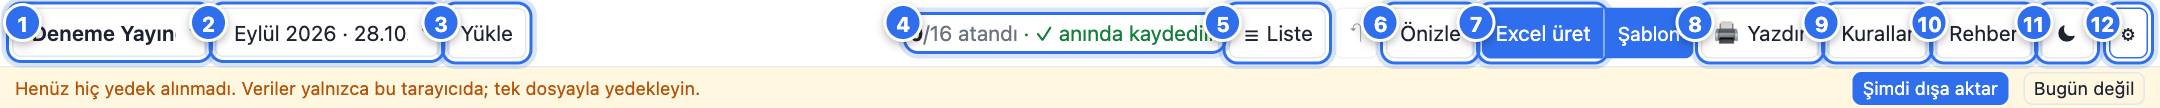
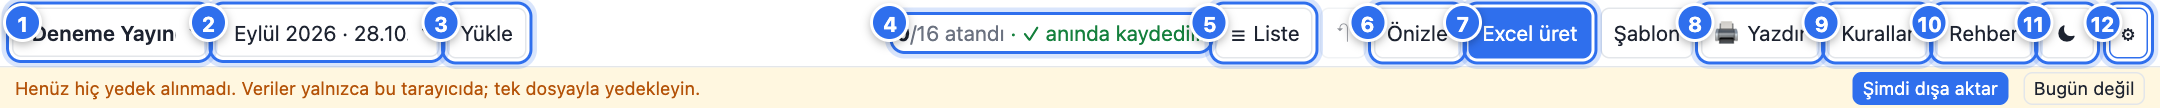
Şablon düğmesi sade ikincil düğme: üst çubukta tek birincil eylem Excel üret

Changed region(s): [[0.4032, 0.0, 0.8065, 0.6389]]

diff --git a/src/ui/styles.css b/src/ui/styles.css
@@ -33,10 +33,8 @@ input:focus, select:focus { outline: 2px solid var(--accent); outline-offset: 0;
 .backup-hint span { flex: 1; }
 .toolbar { display: flex; align-items: center; gap: 8px; padding: 8px 12px; background: var(--panel); border-bottom: 1px solid var(--line); flex-wrap: nowrap; overflow: hidden; min-width: 0; }
 .toolbar > button, .toolbar > select, .toolbar > .progress, .toolbar > .tb-more-wrap { flex: none; }
-/* Excel üret + Şablon: bitişik iki parça, hiç gizlenmez */
-.toolbar > .excel-split { flex: none; display: inline-flex; }
-.excel-split .excel-btn { border-top-right-radius: 0; border-bottom-right-radius: 0; }
-.excel-split .excel-tpl { border-top-left-radius: 0; border-bottom-left-radius: 0; border-left-color: color-mix(in srgb, var(--accent-ink) 40%, var(--accent)); font-size: 13px; }
+/* Excel üret (birincil) + Şablon (ikincil, sade): ikisi de hiç gizlenmez */
+.toolbar > .excel-split { flex: none; display: inline-flex; gap: 6px; }
 .app:not(.wide) .excel-split > button { padding: 6px 8px; }
 .toolbar .progress { white-space: nowrap; }
 .toolbar kbd { display: none; } .app.wide .toolbar kbd, .toolbar kbd.always { display: inline; }

diff --git a/src/ui/Toolbar.tsx b/src/ui/Toolbar.tsx
@@ -139,7 +139,7 @@ export function Toolbar() {
       {acts.slice(0, 3).map((a) => <button data-act={a.id} class={a.cls ?? ''} onClick={a.on} disabled={a.disabled} title={a.title}>{a.label}{a.kbd && a.id === 'preview' && <kbd>F5</kbd>}</button>)}
       <span class="excel-split">
         <button class="primary excel-btn" onClick={() => S.exportExcel()} disabled={!b || n === 0} title="Excel üret (F1)">Excel üret <kbd>F1</kbd></button>
-        <button class="primary excel-tpl" onClick={() => (S.templateOpen.value = true)} title={`Excel şablonu (${S.firm.value.name}): hangi sütunlar, hangi sırayla, hangi başlıkla`}>Şablon</button>
+        <button class="excel-tpl" onClick={() => (S.templateOpen.value = true)} title={`Excel şablonu (${S.firm.value.name}): hangi sütunlar, hangi sırayla, hangi başlıkla`}>Şablon</button>
       </span>
       {acts.slice(3).map((a) => <button data-act={a.id} class={a.cls ?? ''} onClick={a.on} disabled={a.disabled} title={a.title}>{a.label}</button>)}
       <div class="tb-more-wrap">
